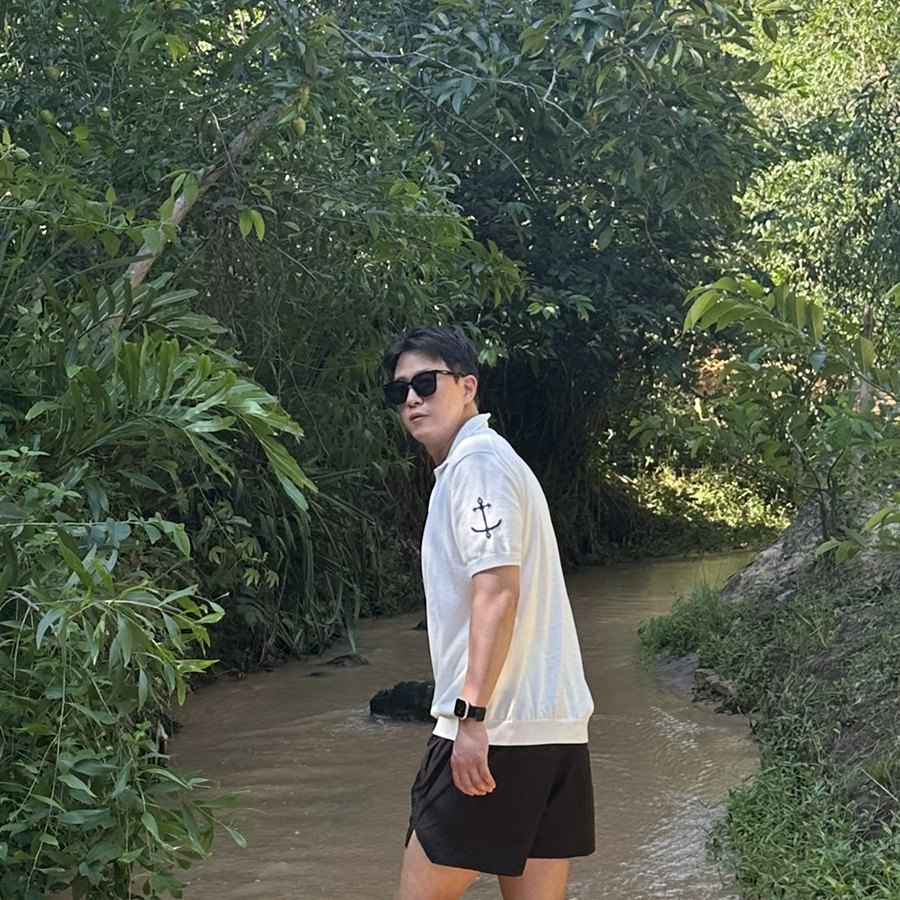
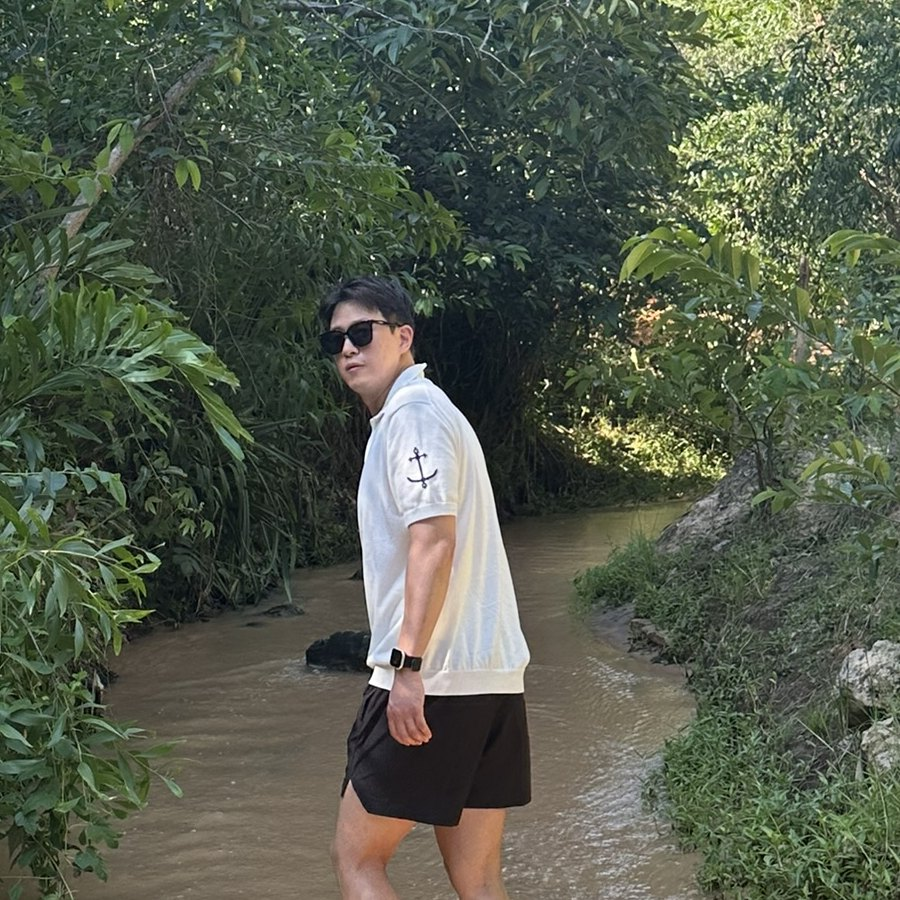
얼굴이 원 한가운데 오고, NPS 화면은 가장자리 여백 없이 채워지게 맞춤

diff --git a/src/data.ts b/src/data.ts
@@ -46,7 +46,7 @@ export const profile = {
   resumePdf: '/resume.pdf',
   updated: '2026. 10',
   photo: {
-    src: '/photos/profile.jpg?v=2',
+    src: '/photos/profile.jpg?v=3',
     alt: '계곡가에서 선글라스를 쓰고 뒤를 돌아본 상반신. 흰 셔츠.',
   } satisfies Photo,
 }
@@ -127,7 +127,7 @@ export const caseStudies: CaseStudy[] = [
     role: '업로드·변환 화면 및 서버 개발',
     tech: ['PHP Laravel', 'Vue.js 3', 'TypeScript', 'Inertia.js', 'Redis Queue', 'SSE', 'Tus', 'Oracle'],
     image: {
-      src: '/photos/mbc-nps.jpg?v=2',
+      src: '/photos/mbc-nps.jpg?v=3',
       alt: 'MBC NPS 검색 화면. 영상 목록과 미리보기가 격자로 보이는 인제스트 결과.',
     },
     flow: ['브라우저', 'Tus 분할 업로드', '원본 저장', 'Redis 큐', '변환 워커', 'SSE로 진행률 전달'],
